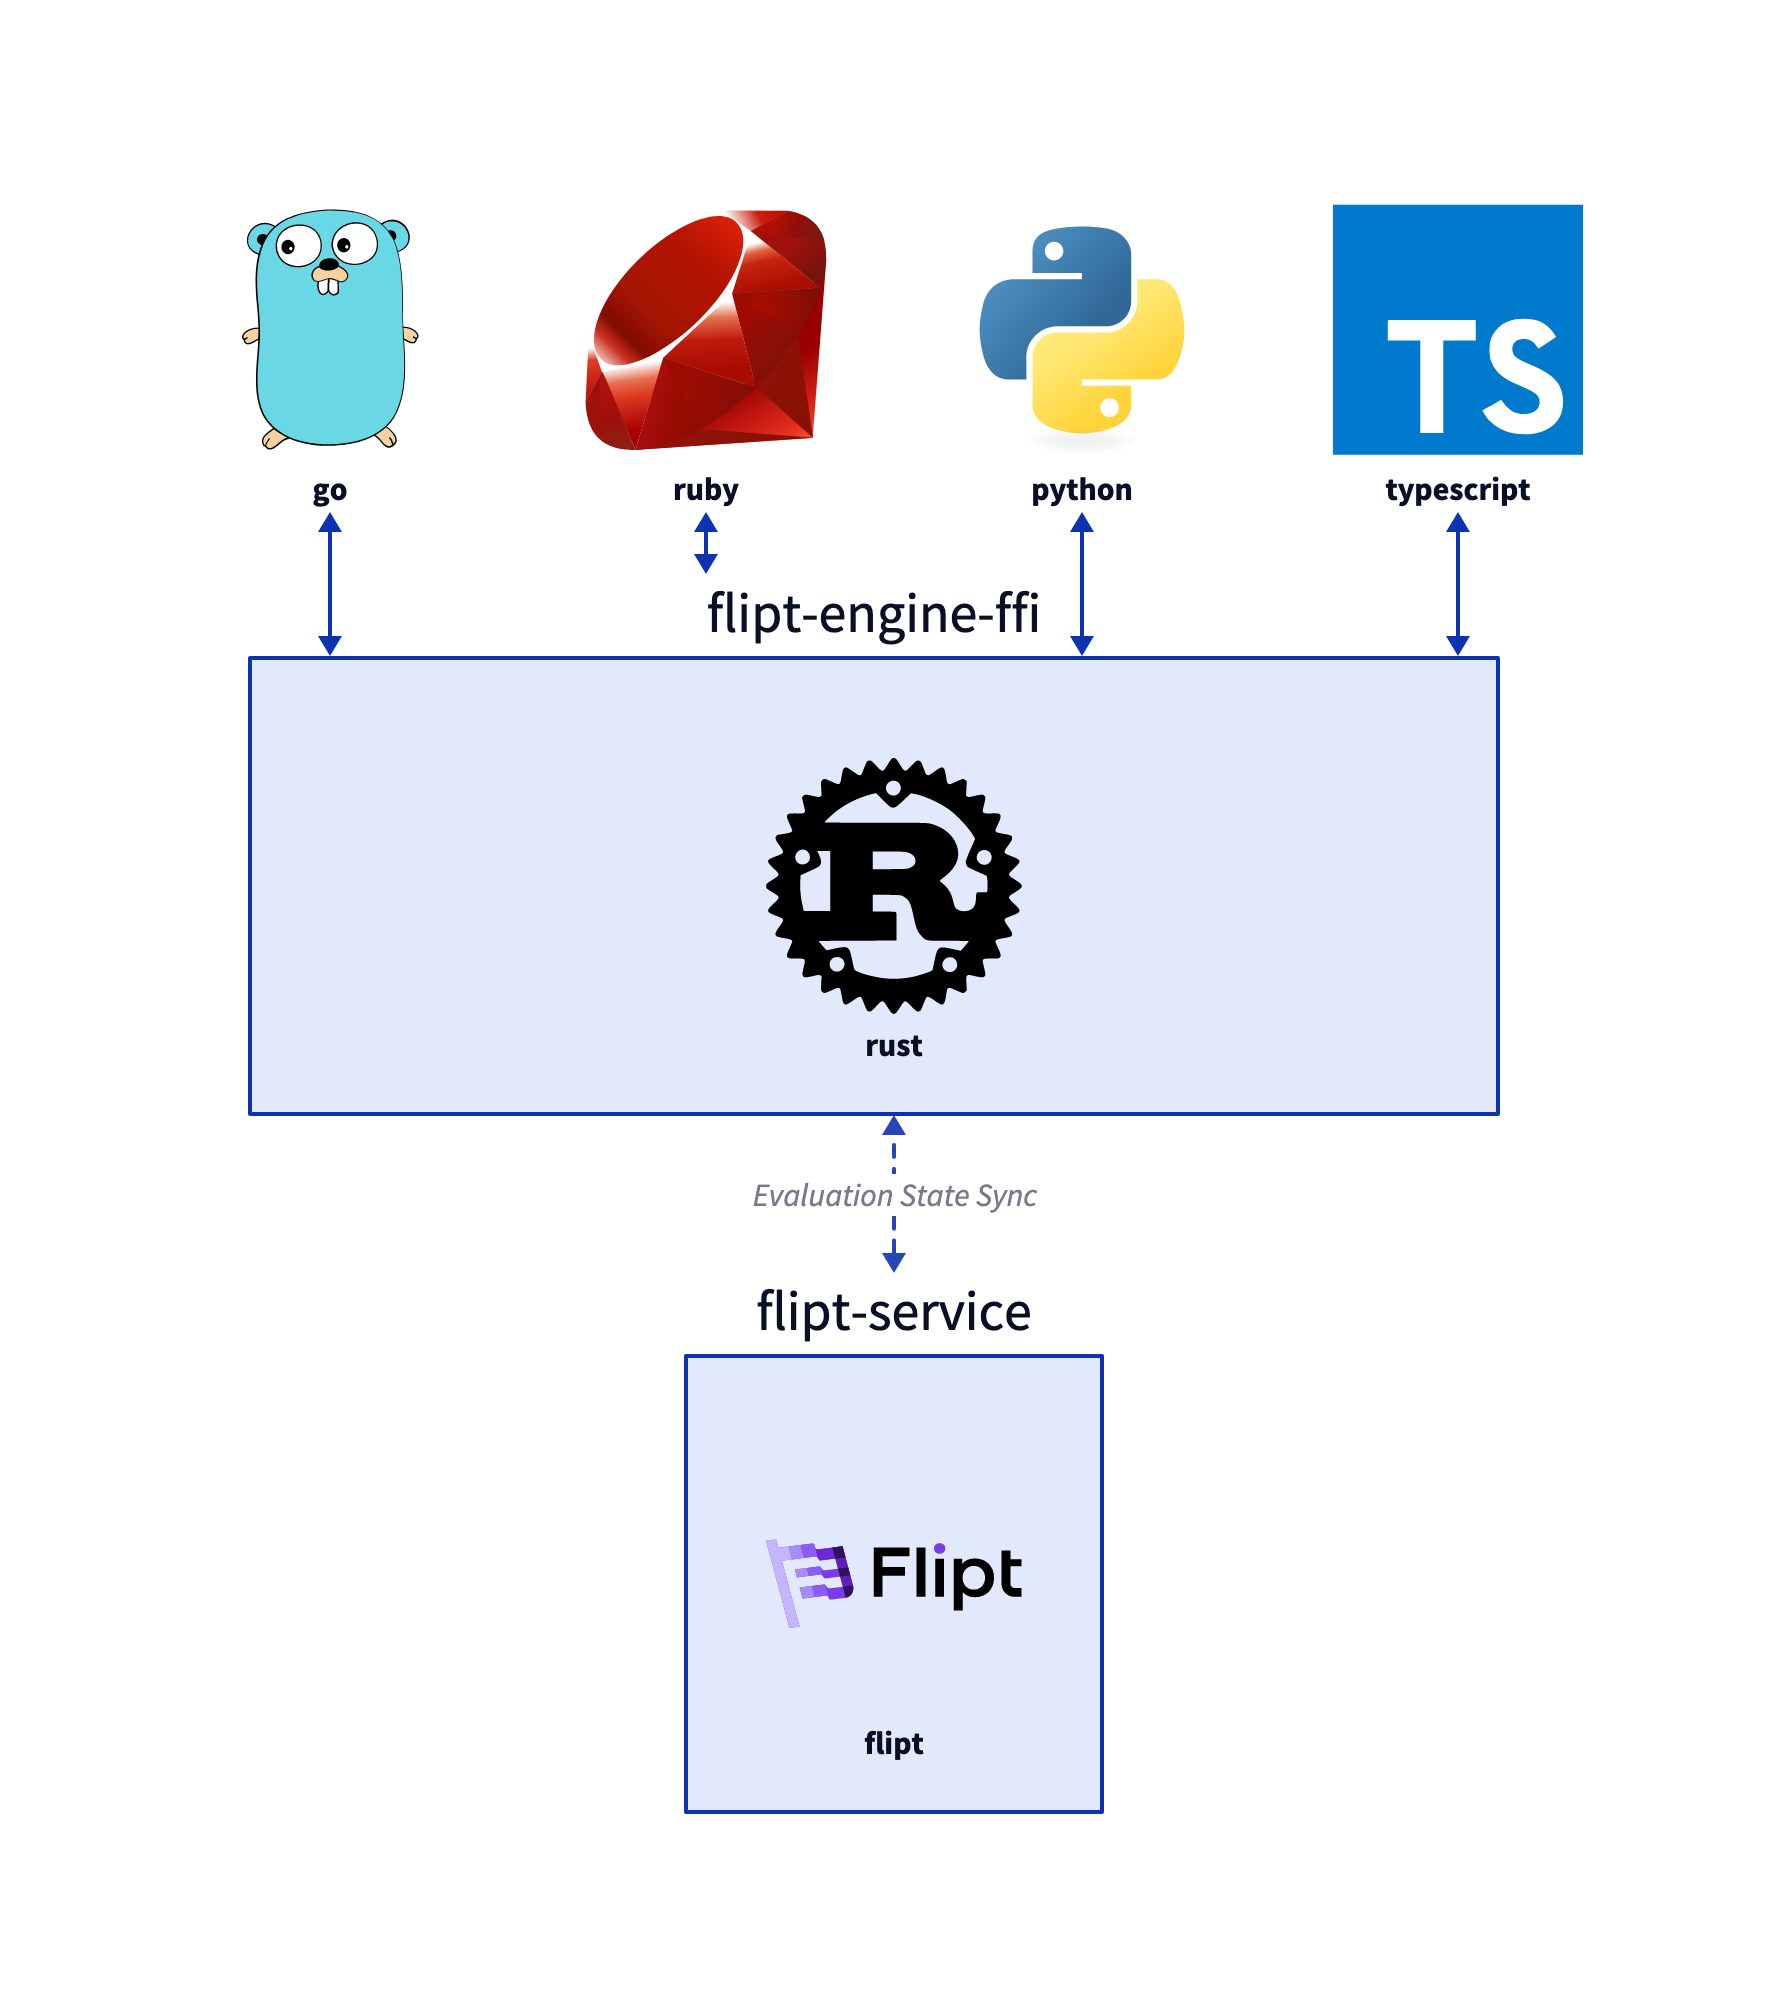
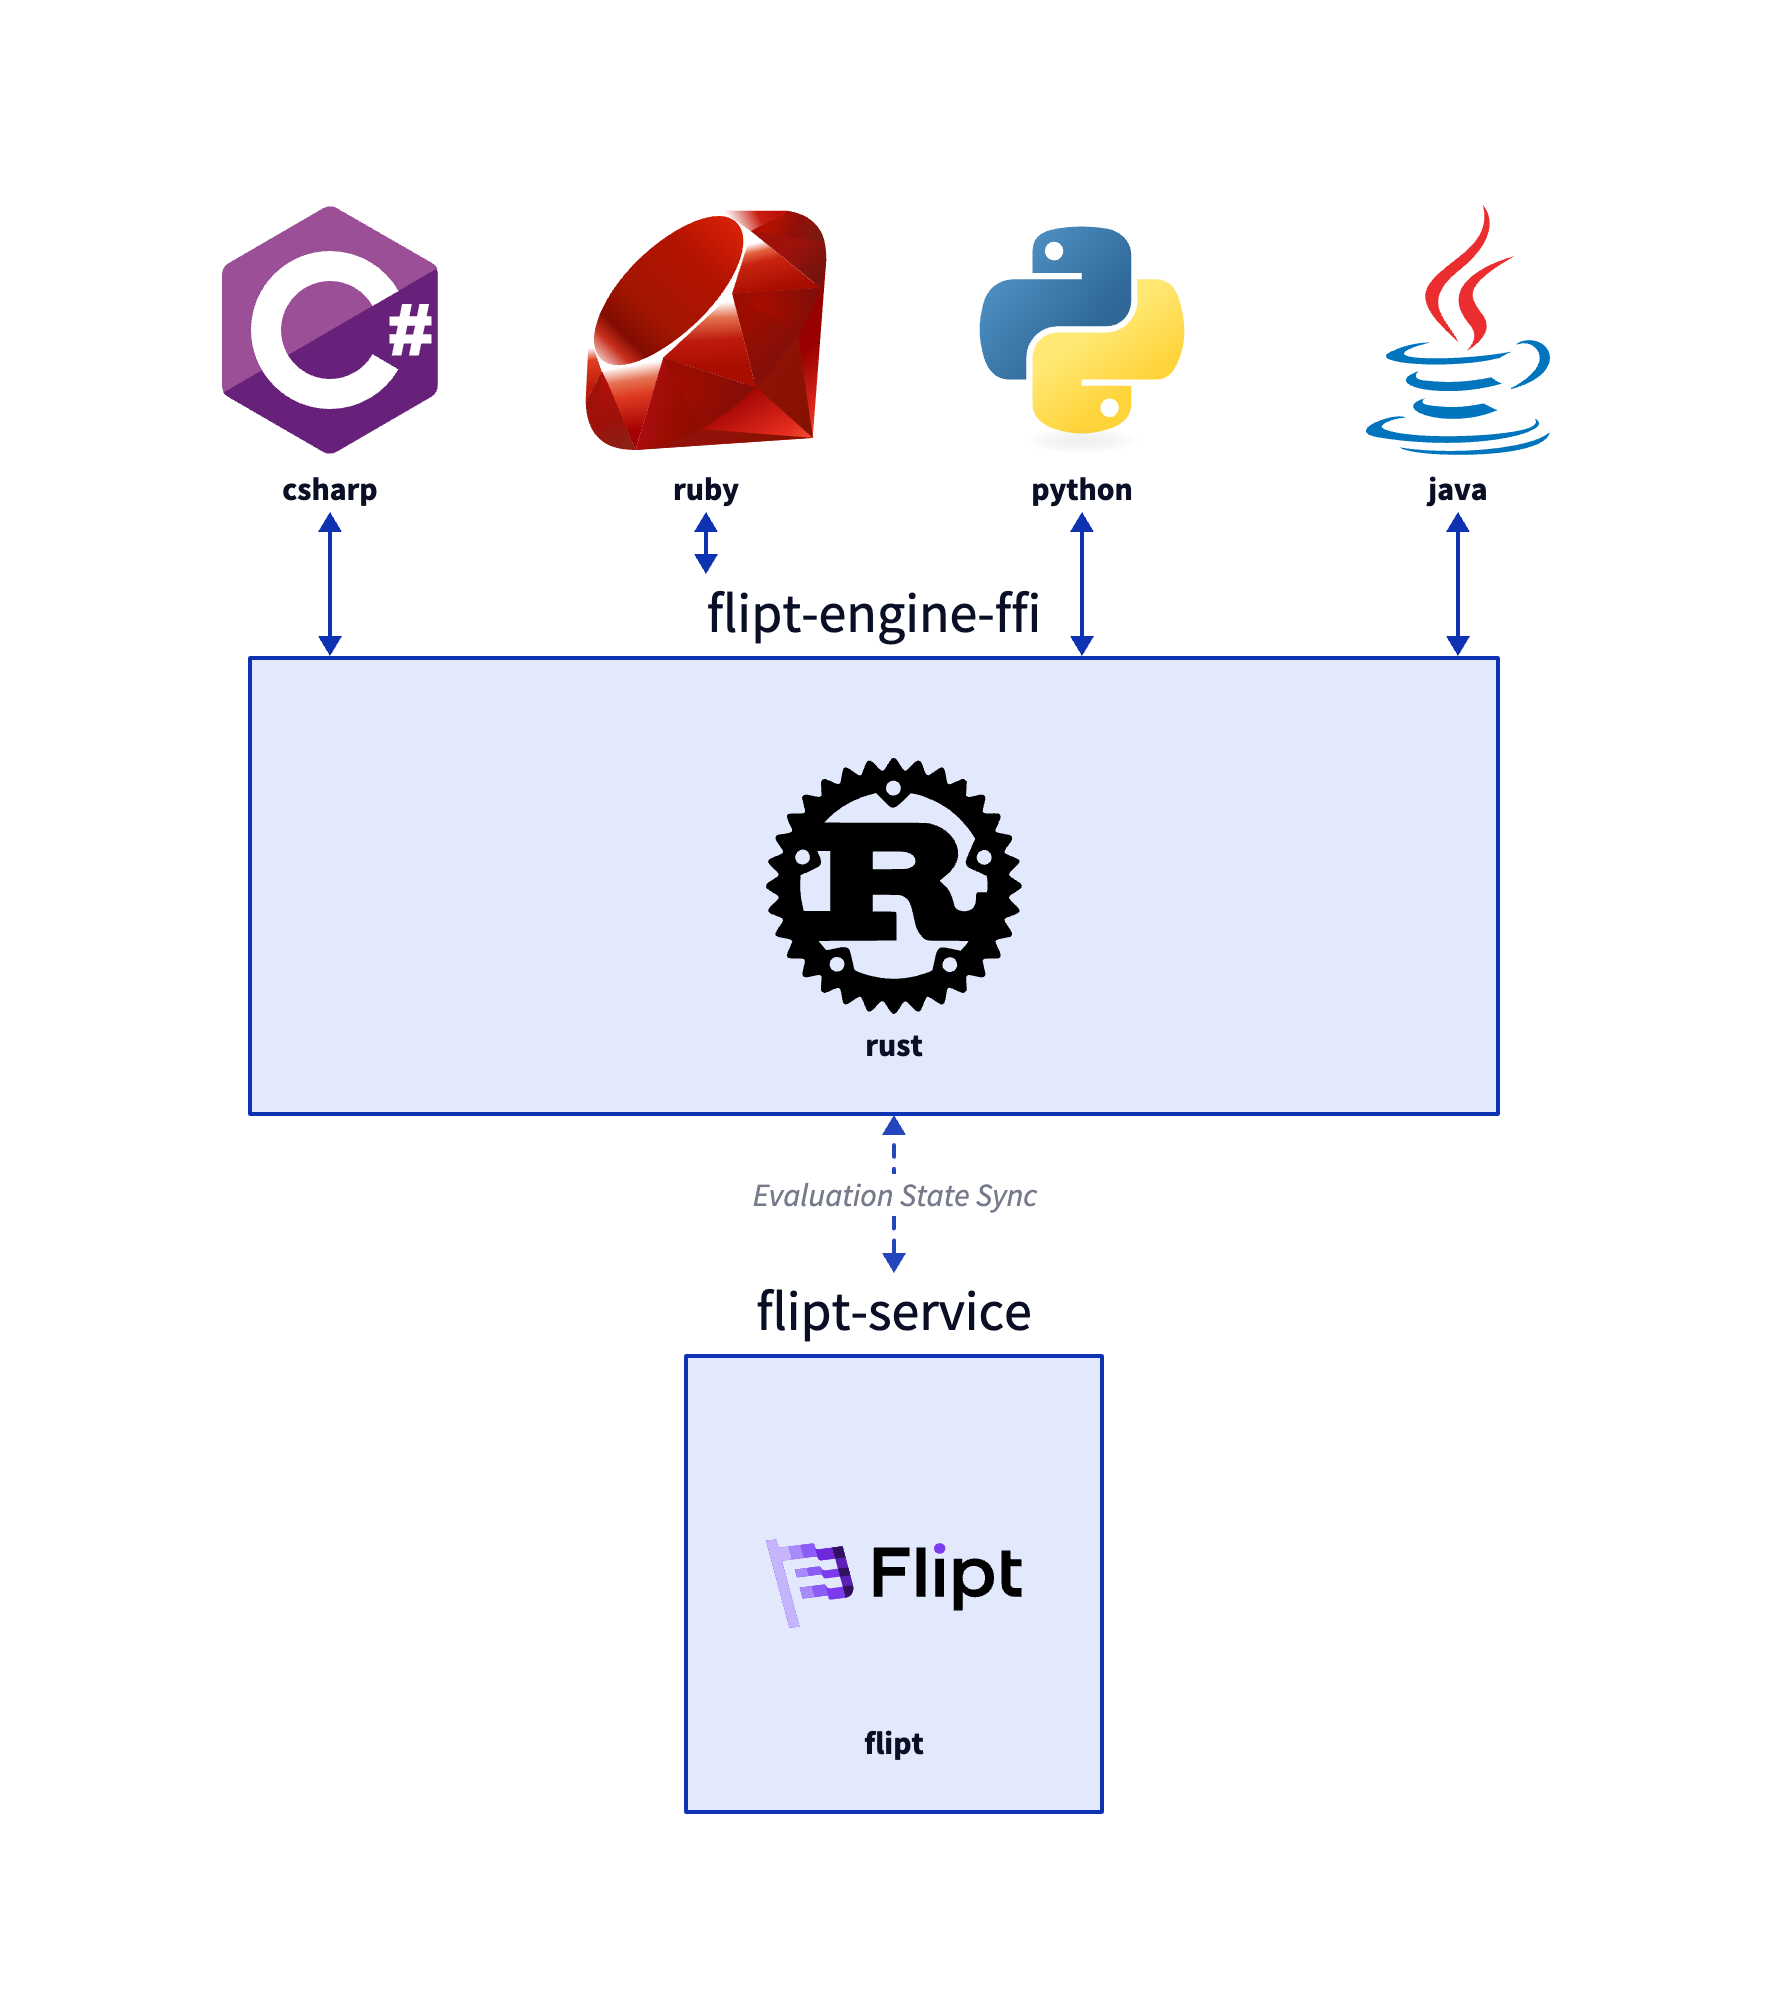
chore: update diagrams and readmes

Changed region(s): [[0.7383, 0.0924, 0.8921, 0.2463], [0.123, 0.0924, 0.2461, 0.2463]]

diff --git a/ARCHITECTURE.md b/ARCHITECTURE.md
@@ -2,12 +2,13 @@
 
 This document describes the architecture of the client-side SDKs for Flipt.
 
-The Flipt client-side SDKs are currently broken down into two main implementations:
+The Flipt client-side SDKs are currently broken down into three main implementations:
 
 - [FFI](#ffi)
-- [WebAssembly](#webassembly)
+- [WebAssembly JS](#webassembly-js)
+- [WebAssembly Non-JS](#webassemblys)
 
-Your use case will determine which implementation is best for you. The FFI implementation is designed to be embedded in native language client SDKs, while the WebAssembly implementation is designed to be embedded in client-side SDKs that run in the browser.
+Your use case will determine which implementation is best for you. The FFI implementation is designed to be embedded in native language client SDKs, while the WebAssembly implementations are designed to be embedded in client-side SDKs where we cannot use the FFI implementation.
 
 ## FFI
 
@@ -30,16 +31,9 @@ You can refer to the architecture diagram below:
 The [`flipt-engine-ffi`](./flipt-engine-ffi) library is responsible for the following:
 
 - Polling for evaluation state from the Flipt server.
+- Subscribing to changes to the evaluation state from the Flipt server via streaming (Flipt Cloud only).
 - Unmarshalling the evaluation state from JSON to memory.
 - Implementing the store trait to allow for the evaluation state to be stored in memory and accessed by the evaluation logic in a threadsafe manner.
-
-#### Evaluation Library
-
-The [`flipt-evaluation`](../flipt-evaluation) library is a Rust library responsible for the following:
-
-- Evaluating context against the evaluation state and returning the evaluation results.
-
-The evaluation logic is extracted into a separate library to allow for the evaluation logic to be reused by both the FFI and WASM engines and eventually by Flipt itself.
 
 #### Client SDKs
 
@@ -50,13 +44,44 @@ The client SDKs are responsible for the following:
 - Unmarshalling the results of the evaluation from JSON to memory and returning the results to the caller.
 - Providing a high-level API for the caller to interact with the client SDK.
 
-## WebAssembly
+## WebAssembly JS
 
-[`flipt-engine-wasm`](./flipt-engine-wasm) is a Rust library that compiles to [WebAssembly](https://webassembly.org/) and is designed to be embedded in the client-side SDKs that run in the browser.
+[`flipt-engine-wasm-js`](./flipt-engine-wasm-js) is a JavaScript library that compiles to [WebAssembly](https://webassembly.org/) and is designed to be embedded in the client-side SDKs that run in the browser.
 
 The client-side SDKs send context to the client engine via the WebAssembly interface and receive the results of the evaluation from the engine.
 
 Because of the current limitations of WebAssembly, the engine is designed to be stateless and does not poll for evaluation state from the Flipt server. Instead, the client-side SDKs are responsible for fetching the evaluation state from the Flipt server and sending it to the engine.
+
+You can refer to the architecture diagram below:
+
+<p align="center">
+    <img src=".github/images/architecture-wasm-js.png" alt="Client SDKs Architecture (WASM JS)" width="500px" />
+</p>
+
+### Responsibilities
+
+#### WASM Engine
+
+The [`flipt-engine-wasm-js`](./flipt-engine-wasm-js) library is responsible for the following:
+
+- Deserializing the evaluation state from JSON to memory.
+- Calling the evaluation logic from the [`flipt-evaluation`](./flipt-evaluation) library to evaluate context against the evaluation state and returning the evaluation results.
+- Serializing the evaluation results from memory to JSON.
+
+#### Client SDKs
+
+The client SDKs are responsible for the following:
+
+- Fetching the evaluation state from the Flipt server.
+- Marshalling context to JSON.
+- Sending context and the evaluation state to the engine via the WebAssembly interface.
+- Unmarshalling the results of the evaluation from JSON to memory and returning the results to the caller.
+
+## WebAssembly 
+
+[`flipt-engine-wasm`](./flipt-engine-wasm) is a Rust library that compiles to [WebAssembly](https://webassembly.org/) and is designed to be embedded in the client-side SDKs that don't run in the browser and also cannot use the FFI implementation.
+
+The client-side SDKs send context to the client engine via the WebAssembly interface and receive the results of the evaluation from the engine.
 
 You can refer to the architecture diagram below:
 
@@ -74,19 +99,10 @@ The [`flipt-engine-wasm`](./flipt-engine-wasm) library is responsible for the fo
 - Calling the evaluation logic from the [`flipt-evaluation`](./flipt-evaluation) library to evaluate context against the evaluation state and returning the evaluation results.
 - Serializing the evaluation results from memory to JSON.
 
-#### Evaluation Library
+## Evaluation Library
 
-The [`flipt-evaluation`](./flipt-evaluation) library is a Rust library responsible for the following:
+The [`flipt-evaluation`](../flipt-evaluation) library is a Rust library responsible for the following:
 
 - Evaluating context against the evaluation state and returning the evaluation results.
 
 The evaluation logic is extracted into a separate library to allow for the evaluation logic to be reused by both the FFI and WASM engines and eventually by Flipt itself.
-
-#### Browser SDK
-
-The browser SDK is responsible for the following:
-
-- Fetching the evaluation state from the Flipt server.
-- Marshalling context to JSON.
-- Sending context and the evaluation state to the engine via the WebAssembly interface.
-- Unmarshalling the results of the evaluation from JSON to memory and returning the results to the caller.

diff --git a/flipt-client-go/README.md b/flipt-client-go/README.md
@@ -1,7 +1,6 @@
 # Flipt Client Go
 
 [![Client tag](https://img.shields.io/github/v/tag/flipt-io/flipt-client-go?filter=v*&label=flipt-client-go)](https://github.com/flipt-io/flipt-client-go)
-[![Client tag (musl)](https://img.shields.io/github/v/tag/flipt-io/flipt-client-go?filter=musl-v*&label=flipt-client-go-musl)](https://github.com/flipt-io/flipt-client-go)
 [![Go Reference](https://pkg.go.dev/badge/go.flipt.io/flipt-client.svg)](https://pkg.go.dev/go.flipt.io/flipt-client)
 
 The `flipt-client-go` library contains the Go source code for the Flipt [client-side evaluation](https://www.flipt.io/docs/integration/client) client.
@@ -14,9 +13,11 @@ go get go.flipt.io/flipt-client
 
 ## How Does It Work?
 
-The `flipt-client-go` library is a wrapper around the [flipt-engine-ffi](https://github.com/flipt-io/flipt-client-sdks/tree/main/flipt-engine-ffi) library.
+The `flipt-client-go` library is a wrapper around the [flipt-engine-wasm](https://github.com/flipt-io/flipt-client-sdks/tree/main/flipt-engine-wasm) library.
 
-All evaluation happens within the SDK, using the shared library built from the [flipt-engine-ffi](https://github.com/flipt-io/flipt-client-sdks/tree/main/flipt-engine-ffi) library.
+All evaluation happens within the SDK, using the shared library built from the [flipt-engine-wasm](https://github.com/flipt-io/flipt-client-sdks/tree/main/flipt-engine-wasm) library.
+
+We use the [Wazero](https://github.com/tetratelabs/wazero) library to load the WASM module and call the functions that are exported from the module. Wazero implements a WebAssembly runtime for Go without the need for using CGO.
 
 Because the evaluation happens within the SDK, the SDKs can be used in environments where the Flipt server is not available or reachable after the initial data is fetched.
 
@@ -39,24 +40,10 @@ When in streaming mode, the SDK will connect to the Flipt server and open a pers
 This SDK currently supports the following OSes/architectures:
 
 - Linux x86_64
-- Linux x86_64 (musl)
 - Linux arm64
-- Linux arm64 (musl)
 - MacOS x86_64
 - MacOS arm64
 - Windows x86_64
-
-### Glibc vs Musl
-
-Most Linux distributions use [Glibc](https://en.wikipedia.org/wiki/Glibc), but some distributions like Alpine Linux use [Musl](https://en.wikipedia.org/wiki/Musl). If you are using Alpine Linux, you will need to install the `musl` tagged version of the client.
-
-Example:
-
-```bash
-go get go.flipt.io/flipt-client@musl-v0.0.1
-```
-
-See [flipt-client-sdks #141](https://github.com/flipt-io/flipt-client-sdks/issues/141) for more information.
 
 ## Usage
 
@@ -74,7 +61,7 @@ import (
 )
 
 func main() {
-  evaluationClient, err := flipt.NewEvaluationClient()
+  evaluationClient, err := flipt.NewEvaluationClient(context.Background())
   if err != nil {
     log.Fatal(err)
   }
@@ -127,7 +114,7 @@ The engine that is allocated on the Rust side to compute evaluations for flag st
 **Please be sure to do this to avoid leaking memory!**
 
 ```go
-defer evaluationClient.Close()
+defer evaluationClient.Close(context.Background())
 ```
 
 ## Contributing

diff --git a/RELEASE.md b/RELEASE.md
@@ -13,7 +13,7 @@ The engine is released first because the SDKs depend on the engine.
 
 The entire process is made up of a series of GitHub Actions workflows that are triggered by a GitHub release.
 
-We use [release-please](https://github.com/googleapis/release-please>) to generate the CHANGELOG and create the GitHub releases for the engine only.
+We use [release-please](https://github.com/googleapis/release-please) to generate the CHANGELOG and create the GitHub releases for the engine only.
 
 ## Release Process
 
@@ -27,18 +27,14 @@ The FFI engine gets built for each supported platform and is published to the Gi
 
 Releasing the engine is a three-step process:
 
-<p align="center">
-    <img src=".github/images/release-engine-ffi.png" width=600 />
-</p>
-
 1. Create a new release in the [flipt-engine-ffi](./flipt-engine-ffi) package by merging a change to the `main` branch that would trigger a release via conventional commits.
 2. Wait for the release-please workflow to complete. This will create a new release and tag for the engine.
 3. The `package-ffi-engine` workflow will run, building the engine for each supported platform and publishing the artifacts to the GitHub release.
 
-#### SDKs
+### WASM
 
-<p align="center">
-    <img src=".github/images/release-engine-ffi-sdk.png" width=600 />
-</p>
+The WASM engines are built and bundled when the SDKs that depend on them are released.
+
+### SDKs
 
 We use a Python script to release the SDKs. The script is located in the [release](./release) directory. See the [README](./release/README.md) for more information.
